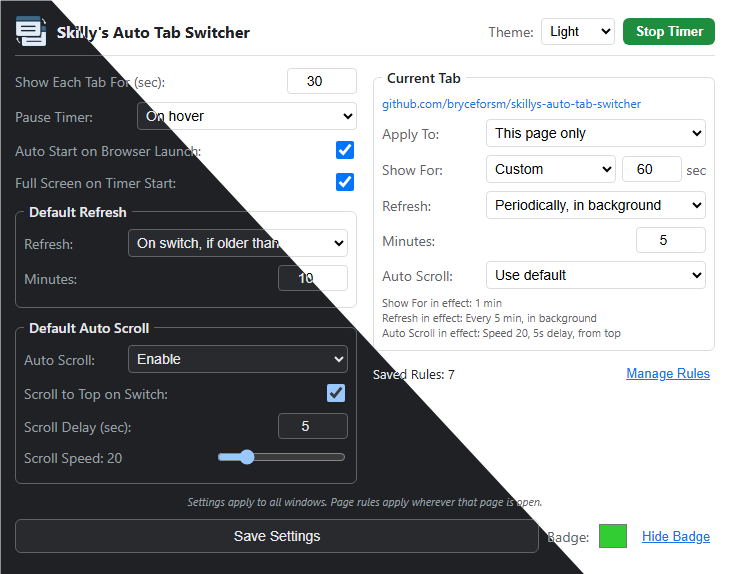
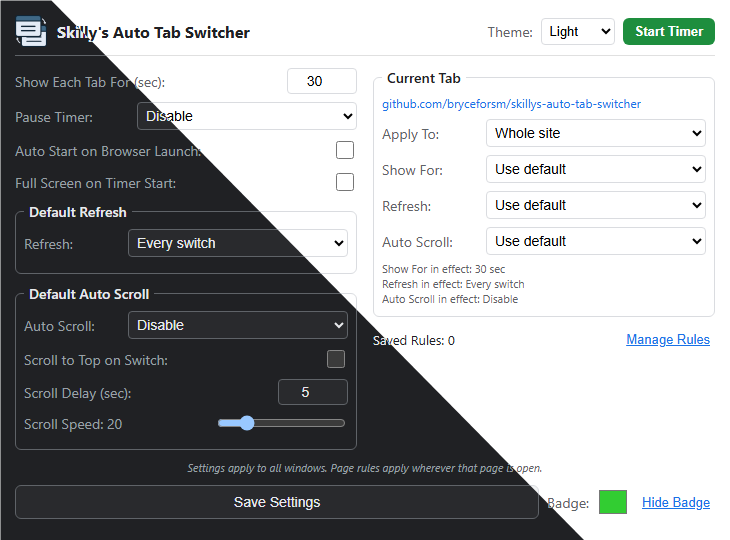
Update screenshot details and add out-of-box settings support in mock data

diff --git a/.github/skills/store-screenshots/assets/mock.js b/.github/skills/store-screenshots/assets/mock.js
@@ -22,14 +22,22 @@
         theme: params.get('theme') || 'light'
     };
 
+    const outOfBox = params.get('defaults') === '1';
+    // theme.js reads storage before shared.js (and DEFAULTS) has loaded, and only needs the theme.
+    const settings = () => {
+        if (!outOfBox) return structuredClone(store);
+        if (typeof DEFAULTS === 'undefined') return { theme: store.theme };
+        return { ...structuredClone(DEFAULTS), theme: store.theme };
+    };
+
     window.chrome = {
         storage: {
-            local: { get: async () => structuredClone(store), set: async () => {}, remove: async () => {}, clear: async () => {} },
+            local: { get: async () => settings(), set: async () => {}, remove: async () => {}, clear: async () => {} },
             onChanged: { addListener() {} }
         },
         windows: { getCurrent: async () => ({ id: 1 }) },
         tabs: { query: async () => [{ id: 1, url: 'https://github.com/bryceforsm/skillys-auto-tab-switcher' }], create() {} },
-        runtime: { sendMessage: async () => ({ running: true }), openOptionsPage() {} }
+        runtime: { sendMessage: async () => ({ running: !outOfBox }), openOptionsPage() {} }
     };
 
     document.addEventListener('DOMContentLoaded', () => {

diff --git a/.github/skills/store-screenshots/SKILL.md b/.github/skills/store-screenshots/SKILL.md
@@ -17,9 +17,10 @@ Renders the real `popup.html` and `rules.html` with sample data in headless Edge
 
    | File | Use |
    |---|---|
-   | `Misc/screenshot.png` | README image (popup, light and dark diagonal split, square corners) |
-   | `Misc/screenshot640x400.jpeg` | Small store screenshot |
+| `Misc/screenshot.png` | README image (popup with out-of-box settings, light and dark diagonal split, square corners) |
+| `Misc/screenshot640x400.jpeg` | Small store screenshot (same out-of-box image) |
    | `Screenshot/popup-light.png`, `popup-dark.png` | 1280x800 store screenshots |
+| `Screenshot/popup-defaults.png` | 1280x800, out-of-box settings with no rules and the timer stopped |
    | `Screenshot/rules-light.png`, `rules-edit-dark.png` | 1280x800 store screenshots |
 
 3. If text is cut off, fix the UI (shorter label or wider control), then run the script again.
@@ -27,7 +28,7 @@ Renders the real `popup.html` and `rules.html` with sample data in headless Edge
 ## Changing what is shown
 
 - Settings, rules, the current tab URL and the theme come from [assets/mock.js](./assets/mock.js). Edit `store` there.
-- Query parameters understood by the mock: `theme=light|dark`, `frame=1` (centre the popup on a 1280x800 backdrop), `edit=<rule key>` (open the Edit Rule dialog), `measure=1` (magenta backdrop used to measure popup height).
+- Query parameters understood by the mock: `theme=light|dark`, `frame=1` (centre the popup on a 1280x800 backdrop), `defaults=1` (out-of-box `DEFAULTS` from `shared.js`, no rules, timer stopped), `edit=<rule key>` (open the Edit Rule dialog), `measure=1` (magenta backdrop used to measure popup height).
 - To add a shot, add a `Save-Shot` line in the script.
 
 ## Things that don't work (already tried)
